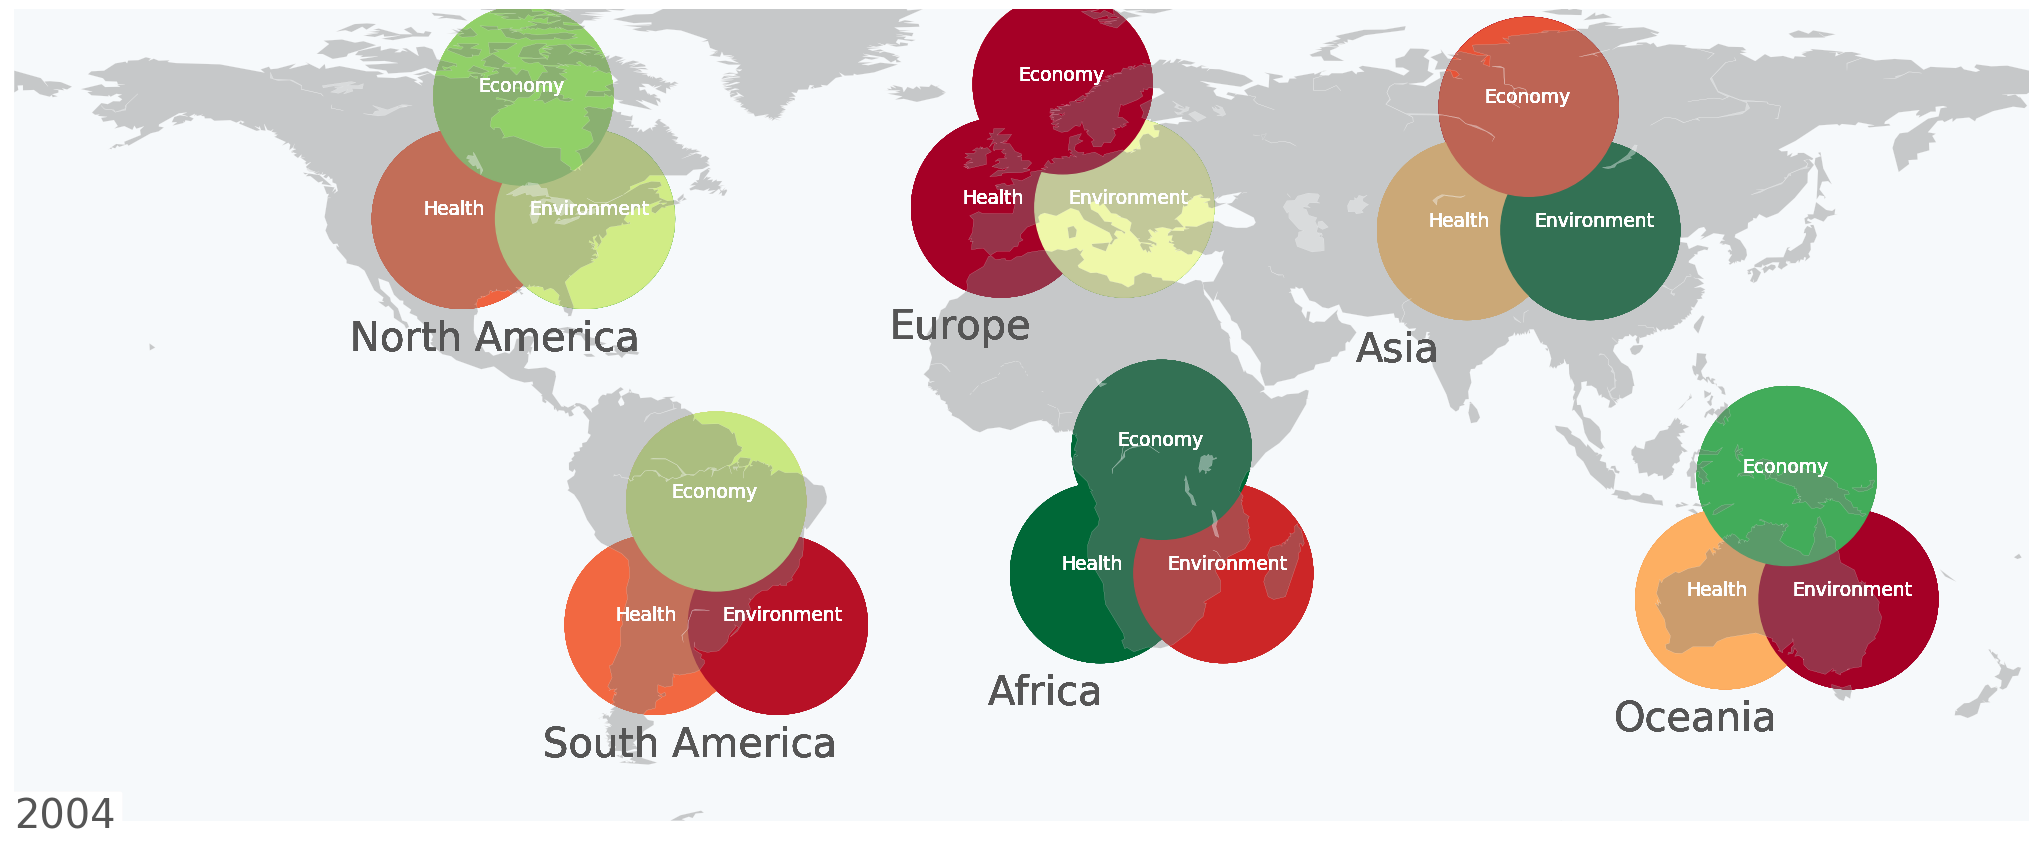
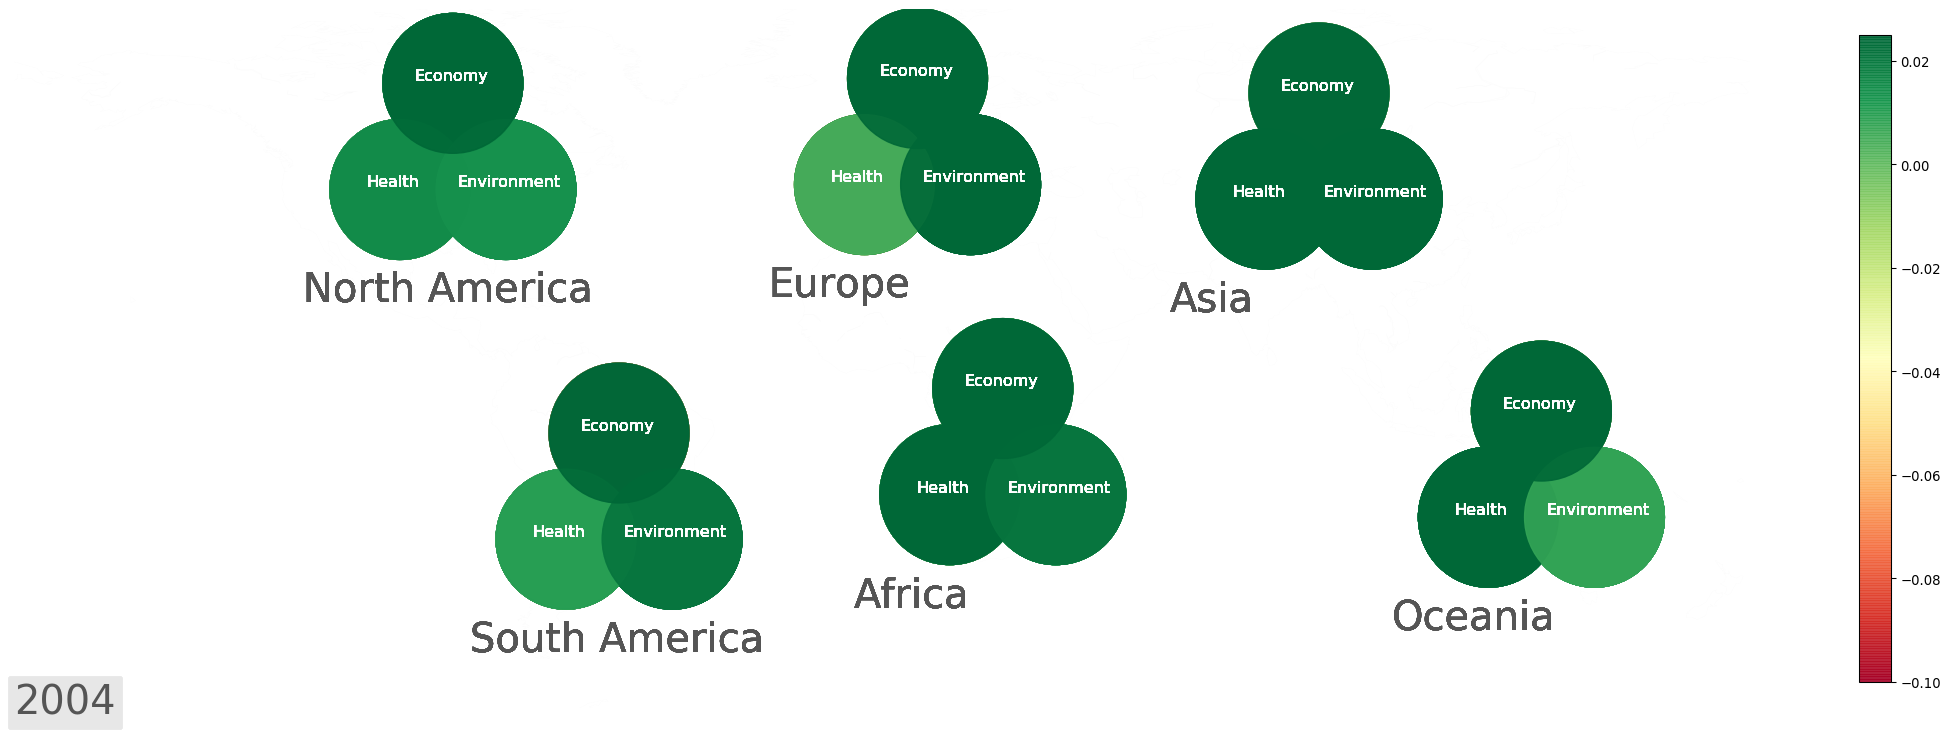
add comments and clean up economy

diff --git a/visualizations/world_map.py b/visualizations/world_map.py
@@ -7,12 +7,19 @@ import sys, os
 sys.path.append(os.path.dirname(os.path.dirname(os.path.abspath(__file__))))
 
 
-def create_world_bubble_map(data_health, data_env, data_econ, filename):
-    '''input: data is a 3 pandas dataframe with 'Continent' for the three domains we want to show
-    filename must include file suffix'''
+def create_world_bubble_map(data_health, data_env, data_econ, file_destination):
+    '''data is 3 pandas dataframe with 'Continent' for the three domains we want to show
+    :param data_health: pd.dataframe
+    :param data_econ: pd.dataframe
+    :param data_env: pd.dataframe
+    :param file_destination: str'''
+    assert(isinstance(data_health, pd.DataFrame))
+    assert (isinstance(data_health, pd.DataFrame))
+    assert (isinstance(data_health, pd.DataFrame))
+    assert (isinstance(file_destination, str))
 
     my_dpi = 96
-    plt.figure(figsize=(2800 / my_dpi, 2000 / my_dpi), dpi=my_dpi)
+    plt.figure(figsize=(2800 / my_dpi, 2800 / my_dpi), dpi=my_dpi)
     # Make the background map
     m = Basemap(llcrnrlon=-180, llcrnrlat=-65, urcrnrlon=180, urcrnrlat=80)
     m.drawmapboundary(fill_color=(0,0,0,0), linewidth=0)
@@ -27,11 +34,13 @@ def create_world_bubble_map(data_health, data_env, data_econ, filename):
                            [125.69, -25.45, 'Oceania'],
                            [-100.04, 42.51, 'North America']]
 
+    #merge latitues and longitudes
     coords_health = pd.DataFrame(coords)
     c_env = list(map(lambda x: [x[0]+22] + [x[1]] + [x[2]], coords))
     coords_env = pd.DataFrame(c_env)
     c_econ = list(map(lambda x: [x[0]+11] + [x[1]+22] + [x[2]], coords))
     coords_econ = pd.DataFrame(c_econ)
+
     coords_health.columns = ['lon', 'lat', 'Continent']
     coords_health = coords_health.set_index('Continent')
     coords_env.columns = ['lon', 'lat', 'Continent']
@@ -43,27 +52,33 @@ def create_world_bubble_map(data_health, data_env, data_econ, filename):
     data_env = data_env.join(coords_env)
     data_econ = data_econ.join(coords_econ)
 
+    cb_exists = False
     for column in data_health.columns:
         # big values display the bubble in green, small value in red
-        m.scatter(data_health['lon'], data_health['lat'], vmax = 0.025, vmin= -0.1, s=17000,  c=data_health[column], cmap='RdYlGn', zorder=1000, alpha=0.9)
-        m.scatter(data_env['lon'], data_env['lat'], vmax = 0.025, vmin= -0.1, s=17000, c=data_env[column], cmap='RdYlGn', zorder=1000, alpha=0.9)
-        m.scatter(data_econ['lon'], data_econ['lat'],vmax = 0.025, vmin= -0.1, s=17000,  c=data_econ[column], cmap='RdYlGn', zorder=1000, alpha=0.9)
+        if column == 'lat' or column == 'lon':
+            continue
+        m.scatter(data_health['lon'], data_health['lat'], vmax = 0.025, vmin= -0.1, s=11000,  c=data_health[column], cmap='RdYlGn', zorder=1000, alpha=0.9)
+        m.scatter(data_env['lon'], data_env['lat'], vmax = 0.025, vmin= -0.1, s=11000, c=data_env[column], cmap='RdYlGn', zorder=1000, alpha=0.9)
+        m.scatter(data_econ['lon'], data_econ['lat'],vmax = 0.025, vmin= -0.1, s=11000,  c=data_econ[column], cmap='RdYlGn', zorder=1000, alpha=0.9)
         for elem in coords:
             plt.text(elem[0]-20, elem[1]-25, elem[2],
             ha='left', va='bottom', size=30, color='#555555')
         for elem in coords:
             plt.text(elem[0]-7, elem[1], 'Health',
-                 ha='left', va='bottom', size=14, color='#FFFFFF', zorder=1001)
+                 ha='left', va='bottom', size=12, color='#FFFFFF', zorder=1001)
         for elem in c_econ:
             plt.text(elem[0]-8, elem[1], 'Economy',
-                 ha='left', va='bottom', size=14, color='#FFFFFF', zorder=1001)
+                 ha='left', va='bottom', size=12, color='#FFFFFF', zorder=1001)
         for elem in c_env:
             plt.text(elem[0]-10, elem[1], 'Environment',
-                 ha='left', va='bottom', size=14, color='#FFFFFF', zorder=1001)
+                 ha='left', va='bottom', size=12, color='#FFFFFF', zorder=1001)
 
         plt.text(-180, -68, column,
             ha='left', va='bottom', size=30, color='#555555', backgroundcolor='#E7E7E7')
-        plt.savefig(column + '_' + filename, bbox_inches='tight', transparent=True)
+        if not cb_exists:
+            plt.colorbar(shrink = 0.3)
+            cb_exists = True
+        plt.savefig(file_destination + column + '_world_overall.png', bbox_inches='tight', transparent=True)
 
 if __name__ =="__main__":
     csv = pd.read_csv('./visualizations/avg_gdp_continents.csv', index_col=0)

diff --git a/utils.py b/utils.py
@@ -7,7 +7,8 @@ colors_pastel = ['#F8B195', '#F67280', '#C06C84', '#6C5B7B', '#355C7D', '#000000
 
 def average_countries_to_continents(dataframe):
     '''this method transforms the values from the specific countries into an average for the continent
-    input: pandas dataframe with countries as index, columns are years
+    pandas dataframe with countries as index, columns are years
+    :param dataframe: pandas.dataframe
     returns: pandas dataframe with continents as index'''
     assert(isinstance(dataframe, pd.DataFrame))
     countries_continents = pd.read_csv('./data/countries_continents/Countries-Continents.csv', index_col=1)
@@ -21,6 +22,7 @@ def average_countries_to_continents(dataframe):
 
 
 if __name__ == "__main__":
+    # test the functionality
     gdp_df = pd.read_csv('./data/economy/cleaned_data/cleanedGDP.csv', index_col=0)
     gdp_df_continents = average_countries_to_continents(gdp_df)
     print(gdp_df_continents)

diff --git a/world_overall.py b/world_overall.py
@@ -146,13 +146,13 @@ def run():
     # predict for all categories
     for i, df in enumerate(categories_dfs):
         df = df.drop(columns='1991')
-        data, predictions = autoregressive_integrated_moving_average(df.T, seasonal_order = (1, 1, 0, 1))
+        data, predictions = autoregressive_integrated_moving_average(df.T, 14, seasonal_order = (1, 1, 0, 1))
         data = data.set_index('Year')
         predictions = predictions.set_index('Year')
         avg_env_df = pd.concat([data.T,predictions[8:].T], axis=1) # remove the overlap
         categories_dfs[i] = avg_env_df
 
-    create_world_bubble_map(categories_dfs[0],categories_dfs[1], categories_dfs[2], 'world_overall.png')
+    create_world_bubble_map(categories_dfs[0],categories_dfs[1], categories_dfs[2], 'presentation_images/')
 
 
 if __name__ == "__main__":
